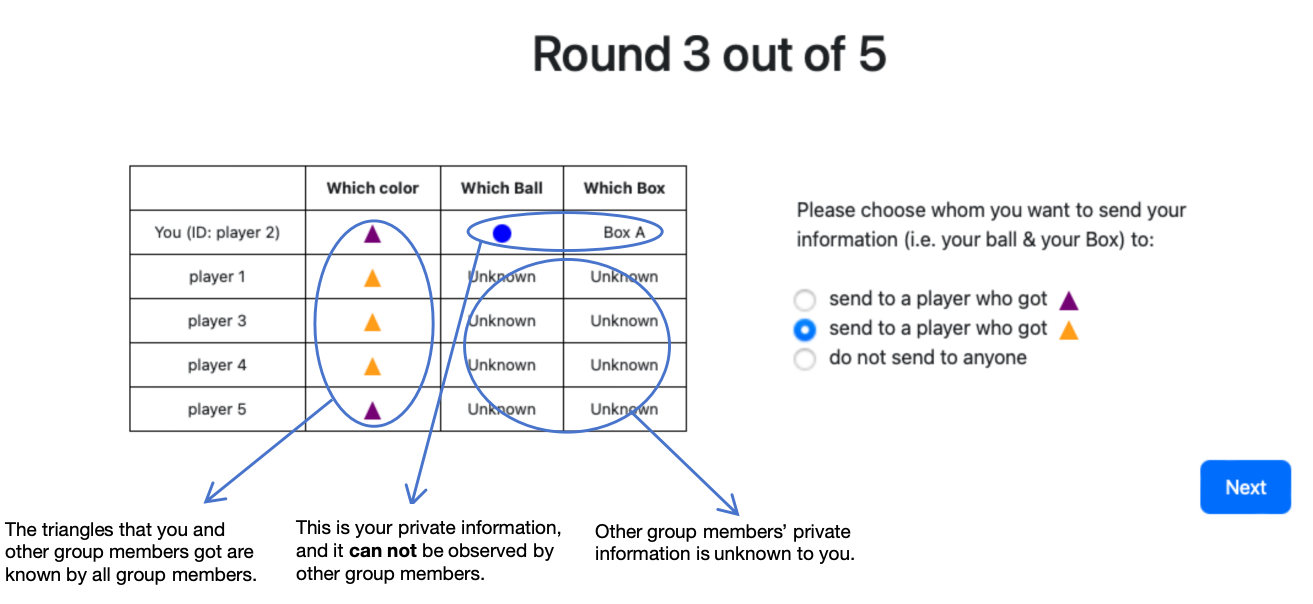
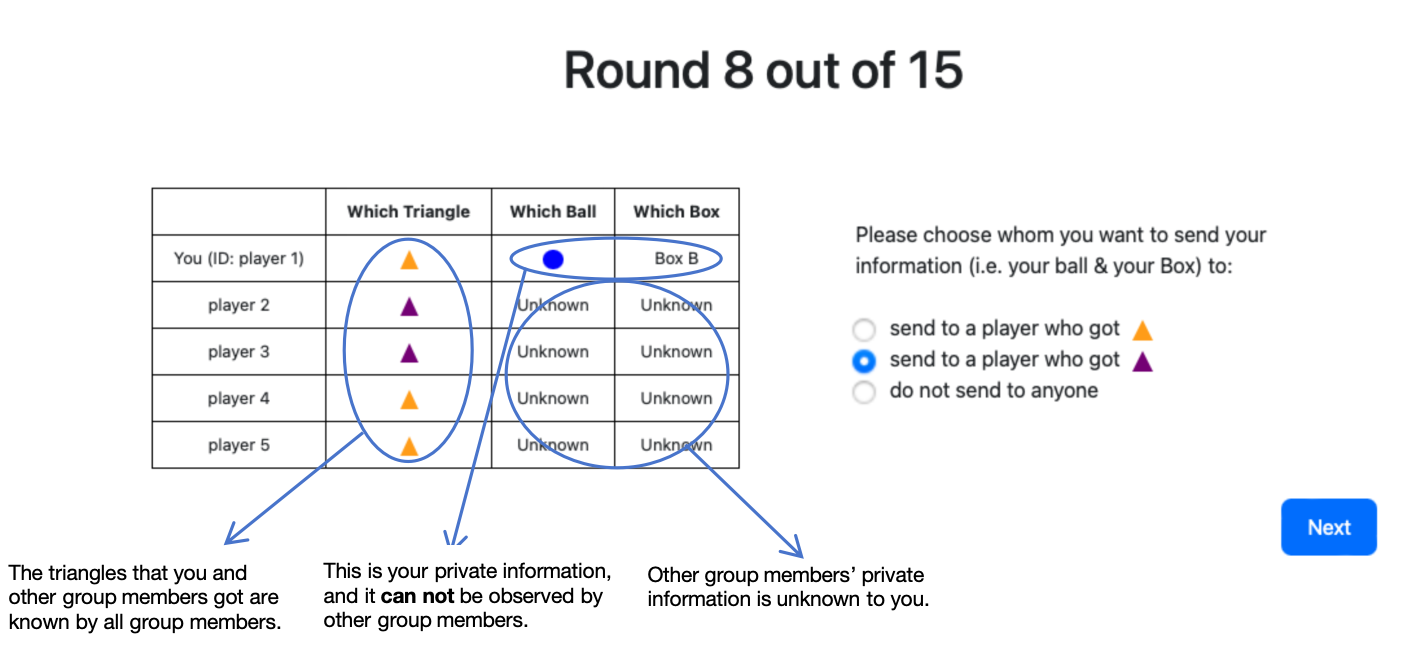
.

diff --git a/voting/Voting_practice_treatment_irr_info/Main_Instructions.html b/voting/Voting_practice_treatment_irr_info/Main_Instructions.html
@@ -30,14 +30,14 @@
 
                 There is a state called ''unknown state''. This unknown state is either <strong style="color: red;">''RED''</strong> or <strong style="color: blue;">''BLUE''</strong>.
 <br>
-                For either unknown state there are two boxes: <strong><em>Box A</em></strong> and <strong><em>Box B</em></strong>.
+                For each unknown state there are two boxes: <strong><em>Box A</em></strong> and <strong><em>Box B</em></strong>.
 <br>
                 The composition of the boxes and their relation to the “unknown state” is as follows.
                 <ul>
                     <ul>
                     <li><strong><em>Box A</em></strong> has 8 (eight) balls in total and <strong><em>Box B</em></strong> has 7 (seven) balls in total. </li>
-                    <li>If the unknown state is <strong style="color: red;">''RED''</strong> then <strong><em>Box A</em></strong> has 7 (seven) red balls and 1 (one) blue ball, while <strong><em>Box B</em></strong> has 4 red balls and 3 blue balls.  </li>
-                    <li>If the unknown state is <strong style="color: blue;">''BLUE''</strong> then <strong><em>Box A</em></strong> has 7 (seven) blue balls and 1 (one) red ball, while <strong><em>Box B</em></strong> has 4 blue balls and 3 red balls.  </li>
+                    <li>If the unknown state is <strong style="color: red;">''RED''</strong> then <strong><em>Box A</em></strong> has 7 (seven) red balls and 1 (one) blue ball, while <strong><em>Box B</em></strong> has 4 (four) red balls and 3 (three) blue balls.  </li>
+                    <li>If the unknown state is <strong style="color: blue;">''BLUE''</strong> then <strong><em>Box A</em></strong> has 7 (seven) blue balls and 1 (one) red ball, while <strong><em>Box B</em></strong> has 4 (four) blue balls and 3 (three) red balls.  </li>
                     </ul>
                 </ul>
 
@@ -49,11 +49,11 @@
 <br>
 <br>
     <li>At the beginning of each round, every 5 participants in this lab will be randomly selected into one group, and each participant will be given a unique ID for that round.  </li>
-    <li>In your group, the computer will flip a coin (50-50) to determine the “unknown state” - either <strong style="color: red;">''RED''</strong> or <strong style="color: blue;">''BLUE''</strong>. <b>No one will be told which one is actually selected!</b> </li>
+    <li>In your group, the computer will flip a coin (50-50) to determine the “unknown state” - either <strong style="color: red;">''RED''</strong> or <strong style="color: blue;">''BLUE''</strong>. <b>No one will be told which state is actually selected!</b> </li>
     <li>For each of you, the computer will flip a coin (50-50) again to determine a box given the already selected unknown state - either <strong><em>Box A</em></strong> or <strong><em>Box B</em></strong>. </li>
-    <li>For each of you, the computer will randomly and independently pick a ball from your selected box - either <span class='ball red-ball'></span> or <span class='ball blue-ball'></span> . </li>
-    <li>For each of you, the computer will randomly and independently assign you a triangle - either <span class='ball purple-ball'></span> or <span class='ball orange-ball'></span> . </li>
-    <li>The triangle that each group member got will be shown to other group members, <b>BUT</b> the selected box and selected ball will not be shown to other group members. Your box and ball information is private.</li>
+    <li>For each of you, the computer will <strong><em>randomly</em></strong> and <strong><em>independently</em></strong> pick a ball from your selected box - either <span class='ball red-ball'></span> or <span class='ball blue-ball'></span> . </li>
+    <li>For each of you, the computer will <strong><em>randomly</em></strong> and <strong><em>independently</em></strong> assign you a triangle - either <span class='ball purple-ball'></span> or <span class='ball orange-ball'></span> . </li>
+    <li>The triangle that each group member got will be shown to other group members, <b>BUT</b> the selected box and selected ball will not be shown to other group members. <strong><em>Your box and ball information is private</em></strong>.</li>
 
     <li>After knowing this information, you will be asked to choose whom you want to send your private information (i.e., your ball & your box) to: </li>
       a) &nbsp send to a player who got <span class='ball purple-ball'></span>
@@ -66,7 +66,7 @@
     <span style="font-size: smaller; font-style: italic;">N.B. 1. If there is more than one group member (except you) who got the same triangle, the computer will randomly send your private information to one of them; 2. if no group member (except you) got the purple triangle, option a) will not be available; if no group member (except you) got the orange triangle, option b) will not be available.</span>
 <br>
 <br>
-    <li>For example, if you got a blue ball from <strong><em>Box B</em></strong>, and assigned a purple triangle, and among your group members: one is assigned a purple triangle and three are assigned orange triangles, you will be shown the following:</li>
+    <li>For example, if you got a blue ball from <strong><em>Box B</em></strong>, and assigned an orange triangle, and among your group members: two are assigned purple triangles and two are assigned orange triangles, you will be shown the following:</li>
 
 
 <div style="text-align: center;">
@@ -84,7 +84,7 @@
 <br>
     2) &nbsp the network diagram in the middle includes the flow of information.
 <br>
-    3) &nbsp you need to vote for the ''unknown” state that was chosen at the beginning is: <b><span style="color: red;">RED</span></b> or <b><span style="color: blue;">BLUE</span></b>.
+    3) &nbsp you need to vote for the ''unknown” state that was chosen at the beginning: <b><span style="color: red;">RED</span></b> or <b><span style="color: blue;">BLUE</span></b>.
 <br>
 <br>
 <div style="text-align: center;">

diff --git a/voting/Voting_practice_treatment_relevant_info/Main_Instructions.html b/voting/Voting_practice_treatment_relevant_info/Main_Instructions.html
@@ -30,14 +30,14 @@
 
                 There is a state called ''unknown state''. This unknown state is either <strong style="color: red;">''RED''</strong> or <strong style="color: blue;">''BLUE''</strong>.
 <br>
-                For either unknown state there are two boxes: <strong><em>Box A</em></strong> and <strong><em>Box B</em></strong>.
+                For each unknown state there are two boxes: <strong><em>Box A</em></strong> and <strong><em>Box B</em></strong>.
 <br>
                 The composition of the boxes and their relation to the “unknown state” is as follows.
                 <ul>
                     <ul>
                     <li><strong><em>Box A</em></strong> has 8 (eight) balls in total and <strong><em>Box B</em></strong> has 7 (seven) balls in total. </li>
-                    <li>If the unknown state is <strong style="color: red;">''RED''</strong> then <strong><em>Box A</em></strong> has 7 (seven) red balls and 1 (one) blue ball, while <strong><em>Box B</em></strong> has 4 red balls and 3 blue balls.  </li>
-                    <li>If the unknown state is <strong style="color: blue;">''BLUE''</strong> then <strong><em>Box A</em></strong> has 7 (seven) blue balls and 1 (one) red ball, while <strong><em>Box B</em></strong> has 4 blue balls and 3 red balls.  </li>
+                    <li>If the unknown state is <strong style="color: red;">''RED''</strong> then <strong><em>Box A</em></strong> has 7 (seven) red balls and 1 (one) blue ball, while <strong><em>Box B</em></strong> has 4 (four) red balls and 3 (three) blue balls.  </li>
+                    <li>If the unknown state is <strong style="color: blue;">''BLUE''</strong> then <strong><em>Box A</em></strong> has 7 (seven) blue balls and 1 (one) red ball, while <strong><em>Box B</em></strong> has 4 (four) blue balls and 3 (three) red balls.  </li>
                     </ul>
                 </ul>
 
@@ -49,10 +49,10 @@
 <br>
 <br>
     <li>At the beginning of each round, every 5 participants in this lab will be randomly selected into one group, and each participant will be given a unique ID for that round.  </li>
-    <li>In your group, the computer will flip a coin (50-50) to determine the “unknown state” - either <strong style="color: red;">''RED''</strong> or <strong style="color: blue;">''BLUE''</strong>. <b>No one will be told which one is actually selected!</b> </li>
+    <li>In your group, the computer will flip a coin (50-50) to determine the “unknown state” - either <strong style="color: red;">''RED''</strong> or <strong style="color: blue;">''BLUE''</strong>. <b>No one will be told which state is actually selected!</b> </li>
     <li>For each of you, the computer will flip a coin (50-50) again to determine a box given the already selected unknown state - either <strong><em>Box A</em></strong> or <strong><em>Box B</em></strong>. </li>
-    <li>For each of you, the computer will randomly and independently pick a ball from your selected box - either <span class='ball red-ball'></span> or <span class='ball blue-ball'></span> . </li>
-    <li>The ball that each group member got will be shown to other group members, <b>BUT</b> the selected box will not be shown to other group members. Your box information is private.</li>
+    <li>For each of you, the computer will <strong><em>randomly</em></strong> and <strong><em>independently</em></strong> pick a ball from your selected box - either <span class='ball red-ball'></span> or <span class='ball blue-ball'></span> . </li>
+    <li>The ball that each group member got will be shown to other group members, <b>BUT</b> the selected box will not be shown to other group members. <strong><em>Your box information is private</em></strong>.</li>
 
     <li> After knowing this information, you will be asked to choose whom you want to send your private information (i.e., your box information) to:  </li>
       a) &nbsp send to a player who got <span class='ball red-ball'></span>
@@ -83,7 +83,7 @@
 <br>
     2) &nbsp the network diagram in the middle includes the flow of information.
 <br>
-    3) &nbsp you need to vote for the ''unknown” state that was chosen at the beginning is: <b><span style="color: red;">RED</span></b> or <b><span style="color: blue;">BLUE</span></b>.
+    3) &nbsp you need to vote for the ''unknown” state that was chosen at the beginning: <b><span style="color: red;">RED</span></b> or <b><span style="color: blue;">BLUE</span></b>.
 <br>
 <br>
 <div style="text-align: center;">

diff --git a/voting/Voting_practice_treatment_irr_info/Practice.html b/voting/Voting_practice_treatment_irr_info/Practice.html
@@ -9,7 +9,7 @@
       <br>
 
 
-      <h1><b>Practice session</b></h1>
+      <h1><b>Practice</b></h1>
 
   </div>
 
@@ -20,9 +20,9 @@
       <br>
       <br>
 <ul>
-  <li> Before the actual session, you will also go through a practice session. </li>
+  <li> Before the actual session, you will also go through a practice. </li>
   <li> The purpose is to explain how the experiment works.</li>
-  <li> You will not be paid in the practice session, but will be paid in the session after this practice session. </li>
+  <li> You will not be paid in this practice, but will be paid in the session after this practice. </li>
   <li> Therefore, It is important that you follow the instructions. </li>
   <li> If you have any questions, raise your hand and your question will be answered so everyone can hear. </li>
 </ul>

diff --git a/voting/Voting_practice_treatment_relevant_info/Practice.html b/voting/Voting_practice_treatment_relevant_info/Practice.html
@@ -9,7 +9,7 @@
       <br>
 
 
-      <h1><b>Practice session</b></h1>
+      <h1><b>Practice</b></h1>
 
   </div>
 
@@ -20,9 +20,9 @@
       <br>
       <br>
 <ul>
-  <li> Before the actual session, you will also go through a practice session. </li>
+  <li> Before the actual session, you will also go through a practice. </li>
   <li> The purpose is to explain how the experiment works.</li>
-  <li> You will not be paid in the practice session, but will be paid in the session after this practice session. </li>
+  <li> You will not be paid in this practice, but will be paid in the session after this practice. </li>
   <li> Therefore, It is important that you follow the instructions. </li>
   <li> If you have any questions, raise your hand and your question will be answered so everyone can hear. </li>
 </ul>

diff --git a/voting/Voting_real_treatment_irr_info/Info_and_decision.html b/voting/Voting_real_treatment_irr_info/Info_and_decision.html
@@ -2,7 +2,7 @@
 
 {{ block title }}
 <div style="text-align: center;">
-    <h1>Round {{ player.round_number }} out of 5</h1>
+    <h1>Round {{ player.round_number }} out of 15</h1>
 </div>
 {{ endblock }}
 
@@ -158,7 +158,7 @@ function checkSelection() {
         <table>
            <tr>
                 <th></th>
-                <th>Which color</th>
+                <th>Which Triangle</th>
                 <th>Which Ball</th>
                 <th>Which Box</th>
             </tr>

diff --git a/voting/Voting_practice_treatment_irr_info/Info_and_decision.html b/voting/Voting_practice_treatment_irr_info/Info_and_decision.html
@@ -158,7 +158,7 @@ function checkSelection() {
         <table>
            <tr>
                 <th></th>
-                <th>Which color</th>
+                <th>Which Triangle</th>
                 <th>Which Ball</th>
                 <th>Which Box</th>
             </tr>
